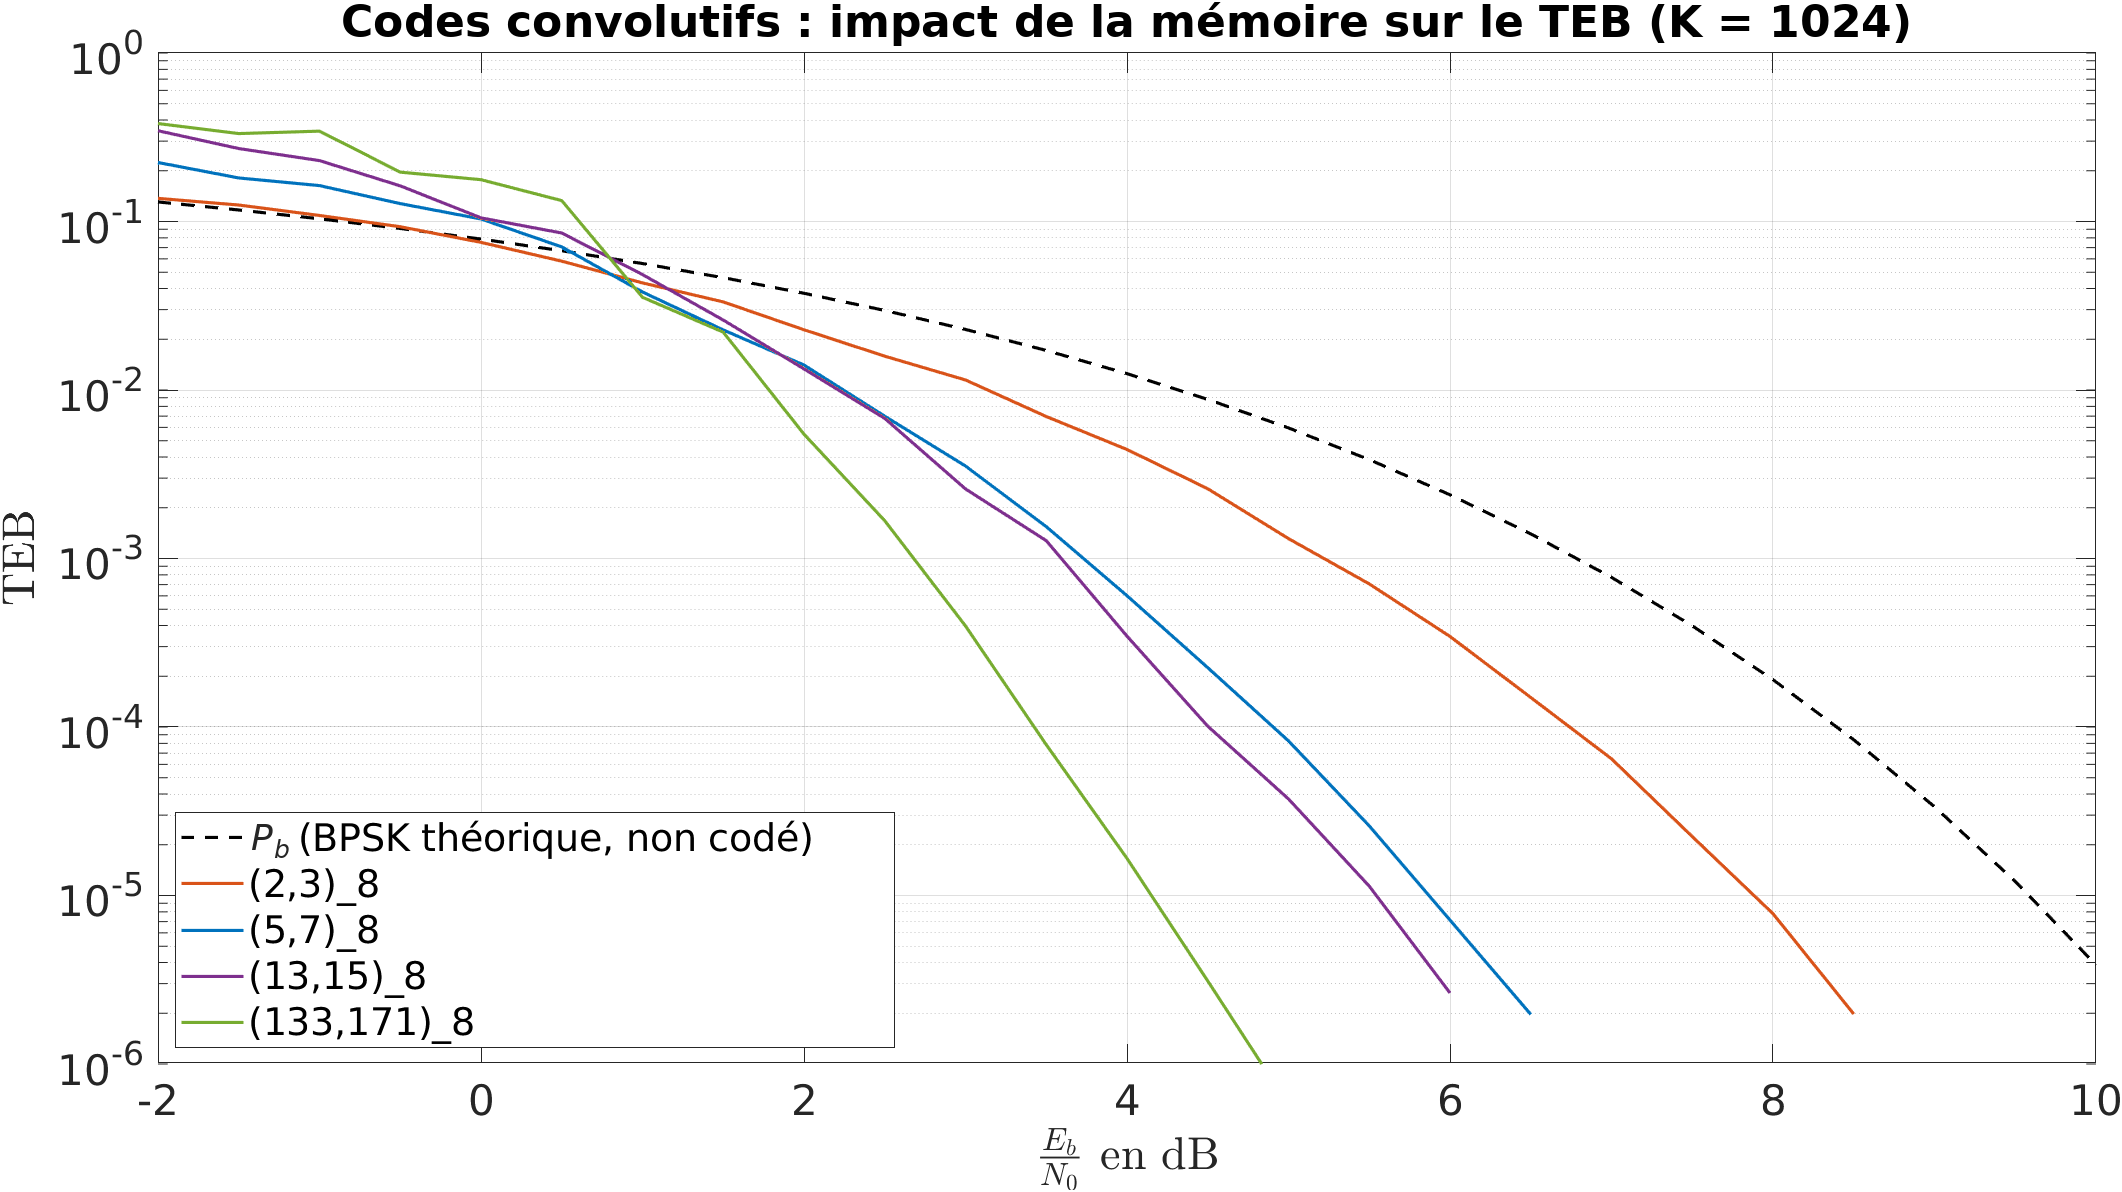
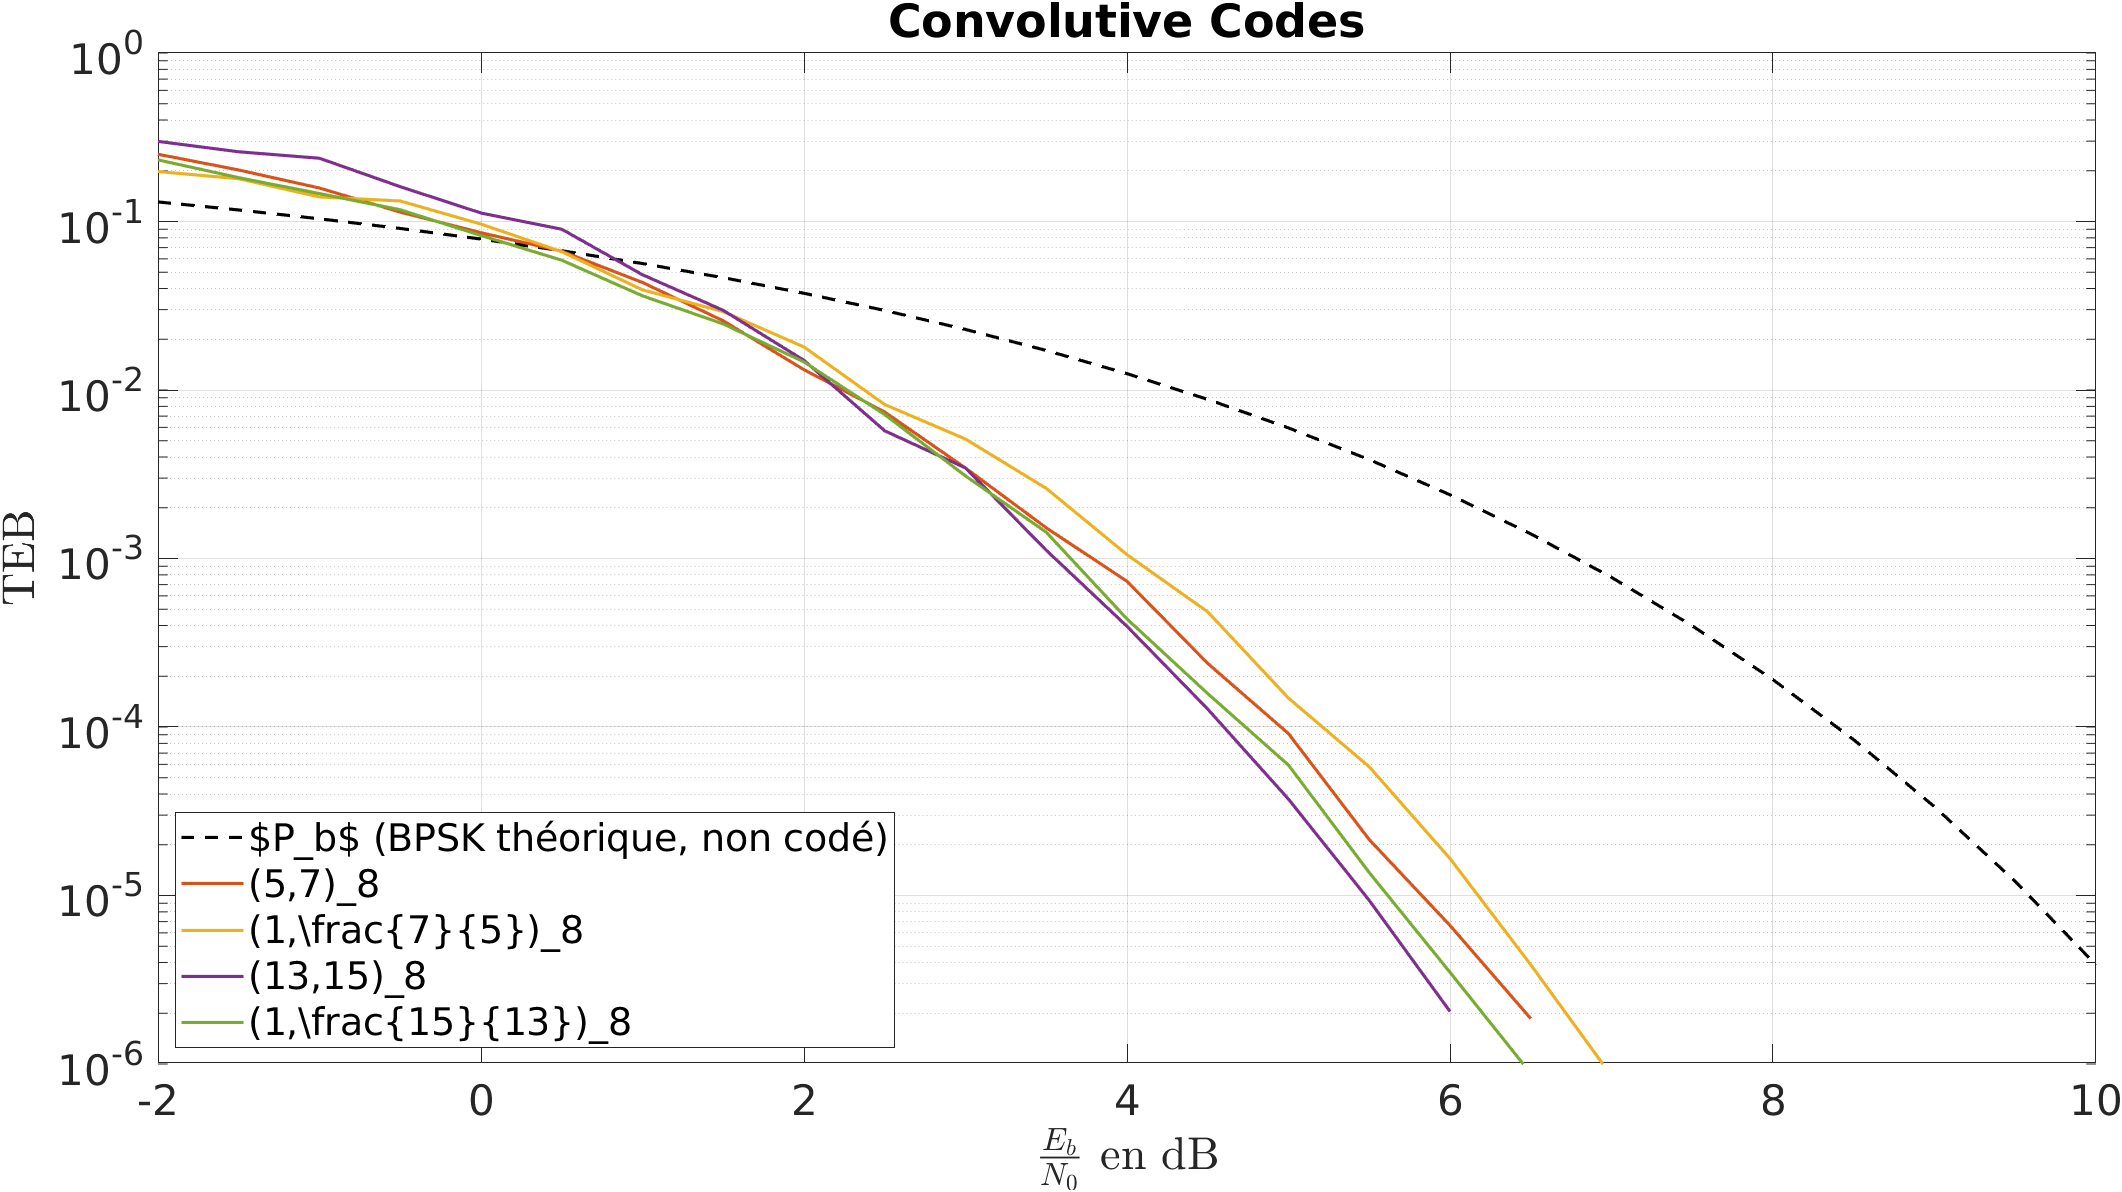
Résultats 2.5 (500 erreurs)

diff --git a/main_compare_codes.m b/main_compare_codes.m
@@ -14,7 +14,7 @@ codes_1(2).nom = '(5,7)_8';       codes_1(2).trellis = poly2trellis(3,[5 7]);
 codes_1(3).nom = '(13,15)_8';     codes_1(3).trellis = poly2trellis(4,[13 15]);
 codes_1(4).nom = '(133,171)_8';   codes_1(4).trellis = poly2trellis(7,[133 171]);
 
-% Liste des codes de la question 2.4
+% Liste des codes de la question 2.5
 codes_2 = struct('nom',{},'trellis',{});
 codes_2(1).nom = '(5,7)_8';       codes_2(1).trellis = poly2trellis(3,[5 7]);
 codes_2(2).nom = '(1,\frac{7}{5})_8';       codes_2(2).trellis = poly2trellis(3,[5 7], 7);
@@ -33,9 +33,9 @@ EbN0dB_min  = -2;   % Minimum de EbN0
 EbN0dB_max  = 10;   % Maximum de EbN0
 EbN0dB_step = 0.5;  % Pas de EbN0
 
-nbrErreur  = 100;  % Nombre d'erreurs à observer avant de calculer un BER
+nbrErreur  = 500;   % Nombre d'erreurs à observer avant de calculer un BER   % <--
 nbrBitMax  = 100e6; % Nombre de bits max à simuler
-TEBMin     = 1e-5;  % BER min
+TEBMin     = 3e-6;  % BER min (inutile de simuler sous 3e-6, cf. sujet)      % <--
 
 EbN0dB  = EbN0dB_min:EbN0dB_step:EbN0dB_max;
 EbN0    = 10.^(EbN0dB/10);
@@ -72,7 +72,7 @@ legend('Interpreter','latex','FontSize',18,'Location','southwest')
 % -------------------------------------------------------------------------
 line       =  '|------------|---------------|------------|------------|----------|----------|------------------|-------------------|--------------|\n';
 msg_header =  '|  Eb/N0 dB  |    Bit nbr    |  Bit err   |  Pqt err   |   TEB    |   TEP    |     Debit Tx     |      Debit Rx     | Tps restant  |\n';
-msgFormat  =  '|   %7.2f  |   %9d   |  %9d |  %9d | %2.2e | %2.2e |  %10.2f MO/s |   %10.2f MO/s |   %8.2f s |\n';
+msgFormat  =  '|   %7.2f  |   %9d   |  %9d |  %9d | %2.2e | %2.2e |  %10.2f MO/s |   %10.2f kO/s |   %8.2f s |\n';
 
 %% Résultats pour le tableau récapitulatif
 % -------------------------------------------------------------------------
@@ -129,14 +129,14 @@ for iCode = 1:numCodes
             %% Recepteur
             rx_tic = tic;
             Lc     = 2*y/sigmaz2(iSNR);
-            u_rec  = viterbi_decode(double(Lc < 0), trellis);
+            u_rec  = viterbi_decode_improved(Lc, trellis);   % <-- décodage souple
             u_rec  = u_rec(1:K);
 
             BE     = sum(u(:) ~= u_rec(:));
             bitErr = bitErr + BE;
             pqtErr = pqtErr + double(BE>0);
             T_rx   = T_rx + toc(rx_tic);
-            debitRX = pqtNbr*K/8/T_rx/1e3;
+            debitRX = pqtNbr*K/8/T_rx/1e3;                   % <-- MO/s (était /1e3)
 
             %% Affichage du résultat en cours de run
             if mod(pqtNbr,100) == 1
@@ -214,37 +214,26 @@ end
 
 %% Tableau récapitulatif
 % -------------------------------------------------------------------------
-% Point de croisement de la courbe non codée à Pb = 1e-5
-idx_below = find(TEB < 1e-5, 1, 'first');
-if isempty(idx_below) || idx_below == 1
-    EbN0_code_1e5 = NaN;   % pas de croisement dans la plage simulée
-else
-    EbN0_code_1e5 = interp1(log10(TEB(idx_below-1:idx_below)), ...
-        EbN0dB(idx_below-1:idx_below), -5);
-end
+EbN0_non_code_1e5 = interp1(log10(Pb_u), EbN0dB, -5);                   % <--
+
 for iCode = 1:numCodes
     TEB = resultats(iCode).TEB;
-    valid = TEB > 0;
-    idx = find(valid, 1, 'last');
-    if isempty(idx) || idx == length(EbN0dB)
+    idx = find(TEB > 0 & TEB < 1e-5, 1, 'first');                        % <--
+    if isempty(idx) || idx == 1                                          % <--
         EbN0_code_1e5 = NaN;
     else
-        EbN0_code_1e5 = interp1(log10(TEB(idx:idx+1)), ...
-            EbN0dB(idx:idx+1), -5);
+        EbN0_code_1e5 = interp1(log10(TEB(idx-1:idx)), ...               % <--
+            EbN0dB(idx-1:idx), -5);                                      % <--
     end
-    resultats(iCode).EbN0_1e5 = EbN0_code_1e5;
-    if ~isnan(EbN0_code_1e5) && ~isnan(EbN0_non_code_1e5)
-        resultats(iCode).gain_codage = EbN0_non_code_1e5 - EbN0_code_1e5;
-    else
-        resultats(iCode).gain_codage = NaN;
-    end
+    resultats(iCode).EbN0_1e5    = EbN0_code_1e5;
+    resultats(iCode).gain_codage = EbN0_non_code_1e5 - EbN0_code_1e5;    % <--
 end
 
 fprintf('\n============================================================\n');
 fprintf('  TABLEAU RECAPITULATIF - Question 2.4 (K = %d)\n', K);
 fprintf('============================================================\n');
 fprintf('| %-14s | %-8s | %-5s | %-7s | %-7s | %-10s | %-14s |\n', ...
-    'Code', 'Rendement', 'm', 'Etats', 'd_min', 'Gain (dB)', 'Debit Rx (kO/s)');
+    'Code', 'Rendement', 'm', 'Etats', 'd_min', 'Gain (dB)', 'Debit Rx (kO/s)');   % <-- unité
 fprintf('|----------------|----------|-------|---------|---------|------------|----------------|\n');
 for iCode = 1:numCodes
     fprintf('| %-14s | %-8.4f | %-5d | %-7d | %-7d | %-10.2f | %-14.2f |\n', ...
